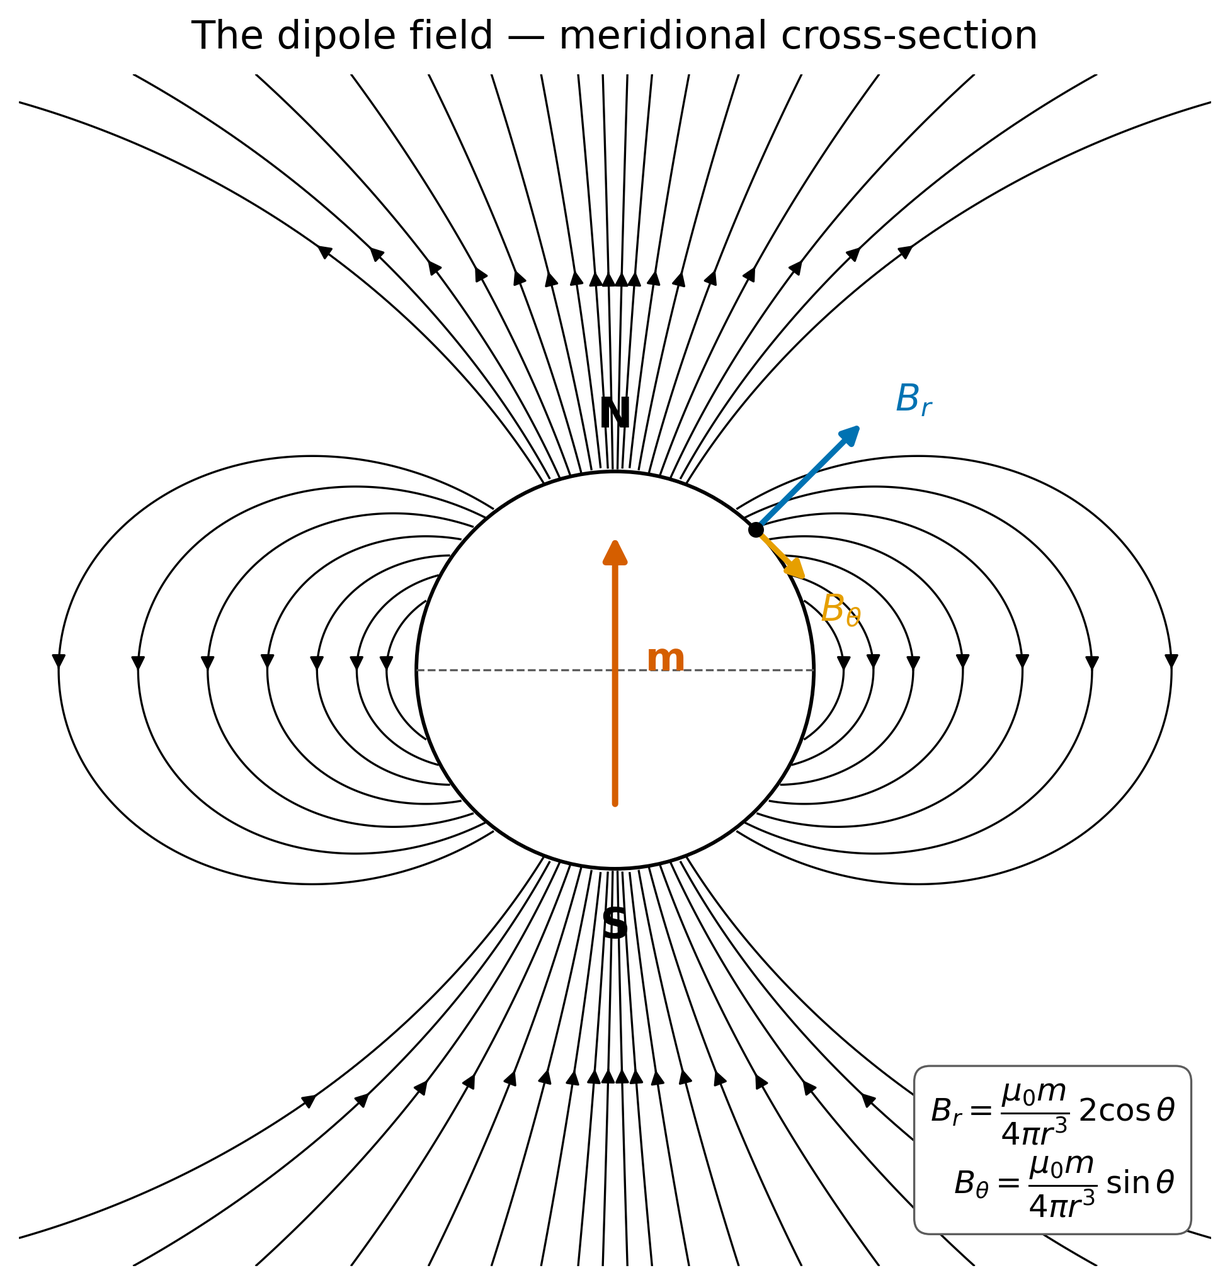
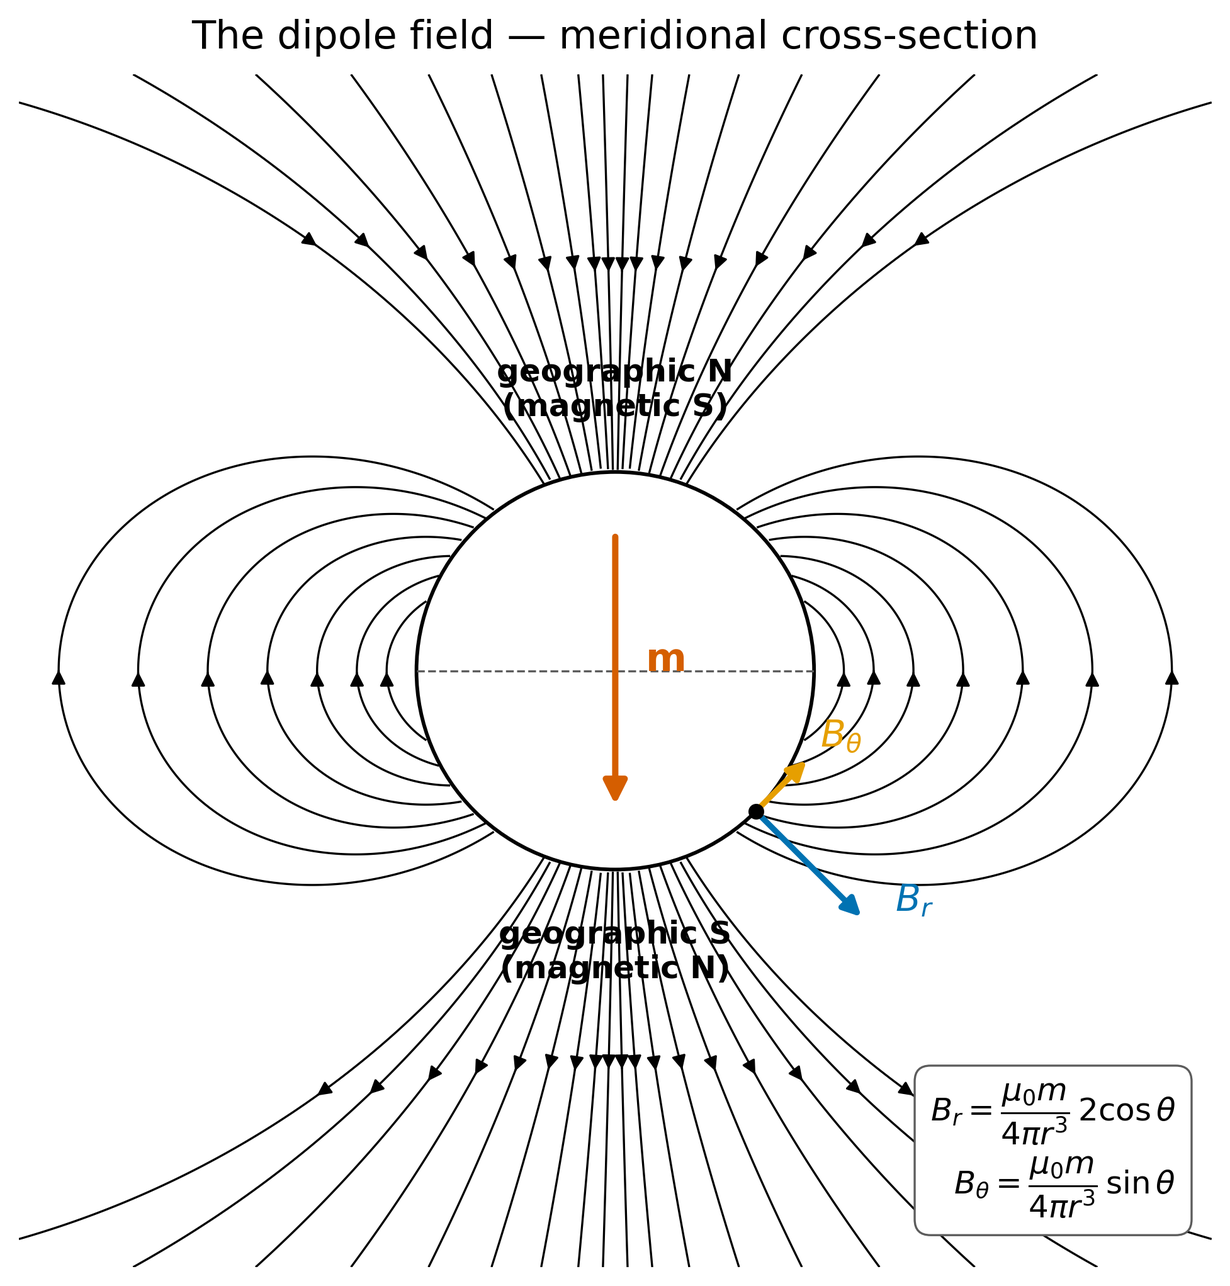
update for smoothing over the mag course

diff --git a/assets/scripts/fig_dipole_big.py b/assets/scripts/fig_dipole_big.py
@@ -49,7 +49,10 @@ def main(out: Path) -> None:
     xg = np.linspace(-extent, extent, n)
     yg = np.linspace(-extent, extent, n)
     X, Y = np.meshgrid(xg, yg)
-    Bx, By = dipole_field(X, Y, m_unit=1.0)
+    # Earth's geomagnetic dipole points from geographic N (magnetic S) to
+    # geographic S (magnetic N), so the moment vector m is in the -y
+    # direction here.
+    Bx, By = dipole_field(X, Y, m_unit=-1.0)
 
     # Mask the field inside the sphere so streamlines don't pass through it.
     inside = (X * X + Y * Y) < 1.0
@@ -93,15 +96,19 @@ def main(out: Path) -> None:
     ax.plot([-1, 1], [0, 0], color=COLORS["grey"], linewidth=0.8,
             linestyle="--", zorder=11)
 
-    # Pole labels (north = up; geographic convention).
-    ax.text(0, 1.18, "N", ha="center", va="bottom", fontsize=16,
-            fontweight="bold", color=COLORS["black"], zorder=12)
-    ax.text(0, -1.18, "S", ha="center", va="top", fontsize=16,
-            fontweight="bold", color=COLORS["black"], zorder=12)
+    # Pole labels: geographic north (top) hosts the *magnetic south* pole,
+    # geographic south (bottom) hosts the *magnetic north* pole. This is
+    # why the north end of a compass needle is attracted toward the
+    # geographic North.
+    ax.text(0, 1.25, "geographic N\n(magnetic S)", ha="center", va="bottom",
+            fontsize=12, fontweight="bold", color=COLORS["black"], zorder=12)
+    ax.text(0, -1.25, "geographic S\n(magnetic N)", ha="center", va="top",
+            fontsize=12, fontweight="bold", color=COLORS["black"], zorder=12)
 
-    # Dipole moment arrow inside the sphere.
+    # Dipole moment arrow inside the sphere — points from magnetic S (top)
+    # to magnetic N (bottom), i.e. downward.
     ax.annotate(
-        "", xy=(0, 0.7), xytext=(0, -0.7),
+        "", xy=(0, -0.7), xytext=(0, 0.7),
         arrowprops=dict(arrowstyle="-|>", color=COLORS["vermilion"],
                         lw=2.4, mutation_scale=18),
         zorder=11,
@@ -110,11 +117,15 @@ def main(out: Path) -> None:
             color=COLORS["vermilion"], zorder=12)
 
     # B_r / B_theta decomposition inset at one surface point.
-    # Pick a point at colatitude theta = 45 deg on the sphere.
+    # Pick a point at colatitude theta = 45 deg measured from the magnetic
+    # north pole (which is at the geographic south, i.e. -y here). The
+    # point therefore sits in the lower-right quadrant; with the flipped
+    # dipole, B_r points outward and B_theta points tangentially toward
+    # the magnetic equator, keeping both components positive.
     theta_pt = np.radians(45.0)
     r_pt = 1.0
     px = r_pt * np.sin(theta_pt)
-    py = r_pt * np.cos(theta_pt)
+    py = -r_pt * np.cos(theta_pt)
     # Compute field magnitudes at that point (in dipole units).
     # B_r = (mu m / 4 pi r^3) * 2 cos theta ; B_theta = ... * sin theta.
     # In arbitrary units take the prefactor = 1.
@@ -122,9 +133,11 @@ def main(out: Path) -> None:
     Bt_mag = np.sin(theta_pt)
     arrow_scale = 0.55  # visual scale of the decomposition arrows
 
-    # Radial unit vector at the point.
-    r_hat = np.array([np.sin(theta_pt), np.cos(theta_pt)])
-    t_hat = np.array([np.cos(theta_pt), -np.sin(theta_pt)])  # tangential, pointing toward equator
+    # Radial unit vector at the point (pointing away from origin) and a
+    # tangential unit vector pointing from the point toward the magnetic
+    # equator (which is the geographic equator, y = 0).
+    r_hat = np.array([np.sin(theta_pt), -np.cos(theta_pt)])
+    t_hat = np.array([np.cos(theta_pt), np.sin(theta_pt)])
 
     # Draw decomposition.
     ax.annotate(
@@ -153,7 +166,7 @@ def main(out: Path) -> None:
     )
     ax.text(
         px + Bt_mag * arrow_scale * t_hat[0] + 0.05,
-        py + Bt_mag * arrow_scale * t_hat[1] - 0.18,
+        py + Bt_mag * arrow_scale * t_hat[1] + 0.05,
         r"$B_\theta$", fontsize=14, color=COLORS["orange"], fontweight="bold",
         zorder=15,
     )

diff --git a/lectures/25_magnetic_anomalies.md b/lectures/25_magnetic_anomalies.md
@@ -34,7 +34,7 @@ By the end of this lecture, students will be able to:
 - **[LO-25.1]** Define the total-field magnetic anomaly $\Delta F$ as the residual $F_\text{obs} - F_\text{IGRF}$ after diurnal correction, and explain why $\Delta F$ is approximately the projection of the source field onto the local $\hat{\mathbf{F}}_\text{earth}$ direction.
 - **[LO-25.2]** Use the closed-form expression for a buried induced magnetic dipole to predict the anomaly shape above the source, including the dependence on the inclination $I$ of the inducing field; explain why magnetic anomalies are asymmetric at all latitudes except the pole.
 - **[LO-25.3]** Apply the half-width depth rule $z \approx 2\,x_{1/2}$ for an induced dipole at the magnetic pole (or after reduction-to-pole), and propagate measurement noise $\sigma_F$ to depth uncertainty $\sigma_z / z \approx (1/3)\,\sigma_F / \Delta F_\text{max}$.
-- **[LO-25.4]** Generate and interpret an ensemble-fit cloud in $(z, m)$ parameter space, identify the theoretical ridge $m \propto z^3$ along which depth and moment trade off, and discuss how induced + remanent ambiguity widens the cloud relative to the gravity case.
+- **[LO-25.4]** Generate and interpret an ensemble-fit cloud in $(z, m)$ parameter space, identify the theoretical ridge $m \propto z^3$ along which depth and moment trade off, and discuss how induced ($\mathbf{m}_\text{ind}$) plus remanent ($\mathbf{m}_\text{rem}$) ambiguity widens the cloud relative to the gravity case.
 - **[LO-25.5]** Read a real magnetic-anomaly map at three scales — global (EMAG2), continental (USGS North America), and local (Seattle Fault Zone) — and identify which geological features each scale resolves; describe the role of magnetic data in mapping the Seattle Fault Zone.
 
 ::::
@@ -57,6 +57,39 @@ By the end of this lecture, students will be able to:
 ## Prerequisites
 
 This lecture builds on Lecture 23 (the constitutive relation $\mathbf{B} = \mu_0(1+\chi)\mathbf{H}$, the dipole field, the local (D, I, F) system, the three sources of the surface field) and Lecture 24 (induced vs remanent magnetisation, the Königsberger ratio $Q$). It also leans heavily on the gravity-inversion framework of Lecture 20: the half-width depth rule, the $\chi^2$-misfit ensemble fit, and the depth-moment trade-off ridge. The magnetic case repeats this framework with a faster-decaying source field and an additional vector ambiguity.
+
+::::{dropdown} Notation reference (this lecture)
+:color: info
+:icon: book
+
+New symbols introduced in Lecture 25. Symbols inherited from Lectures 23–24 ($\mathbf{B}$, $\mathbf{H}$, $\mathbf{M}$, $\mu_0$, $\chi$, $F$, $D$, $I$, $\mathbf{M}_\text{ind}$, $\mathbf{M}_\text{rem}$, $\mathbf{H}_\text{earth}$, $Q$, $T_C$) carry the same meaning and units — see the L23 and L24 notation tables.
+
+| Symbol | Name | Units / notes |
+|---|---|---|
+| $F_\text{obs}$ | Total intensity **measured** at a survey station, $F_\text{obs}=|\mathbf{B}|$. | nT |
+| $F_\text{core}$ | Core-field contribution to $F_\text{obs}$ (the geodynamo signal, L23 §4). | nT |
+| $F_\text{lith}$ | **Lithospheric** contribution (the signal of interest for surveying). | nT |
+| $F_\text{ext}$ | External (ionospheric / magnetospheric) contribution. | nT |
+| $F_\text{IGRF}$ | Modelled core field from the IGRF at the survey epoch (subtracted from $F_\text{obs}$). | nT |
+| $F_\text{diurnal}$ | Base-station time-varying trace used to remove the external field. | nT |
+| $\Delta F$ | **Total-field magnetic anomaly**: $\Delta F = F_\text{obs} - F_\text{IGRF} - F_\text{diurnal}$. | nT |
+| $\Delta F_\text{max}$ | Peak amplitude of $\Delta F$ at the surface above the source. | nT |
+| $\sigma_F$ | RMS measurement noise on $\Delta F$ after all corrections. | nT |
+| $\mathbf{m}$ | **Dipole moment of a buried body** (local to L25; distinct from Earth's $\mathbf{m}$ in L23). | A m$^2$ |
+| $\mathbf{m}_\text{ind},\,\mathbf{m}_\text{rem}$ | Induced and remanent components of the body moment: $\mathbf{m} = \chi V \mathbf{H}_\text{earth} + \mathbf{m}_\text{rem}$. | A m$^2$ |
+| $V$ | Volume of the buried body. | m$^3$ |
+| $\mathbf{F}_\text{earth},\,\hat{\mathbf{F}}_\text{earth}$ | Local ambient total-field vector and its unit direction at the survey point. | nT, — |
+| $\mathbf{B}_\text{source}$ | Surface field perturbation produced by a buried magnetised body. | nT |
+| $\mathbf{B}_\text{dipole}$ | Closed-form dipole field of the body — eq. [](#eq-Bdipole). | nT |
+| $\mathbf{r},\,r$ | Vector from source to observation, and its magnitude. | m |
+| $\hat{\mathbf{m}},\,\hat{\mathbf{r}}$ | Unit vectors of $\mathbf{m}$ and $\mathbf{r}$. | — |
+| $x,\,z$ | Horizontal surface coordinate and **depth-below-surface** (positive downward). | m |
+| $x_{1/2}$ | **Half-width** of the anomaly: $\Delta F(x_{1/2}) = \tfrac12\Delta F_\text{max}$. | m |
+| $\sigma_z$ | Propagated depth uncertainty from $\sigma_F$. | m |
+| $\Phi$ | Gravitational scalar potential ($\mathbf{g} = -\nabla\Phi$). | m$^2$ s$^{-2}$ |
+| $\Psi$ | Magnetic scalar potential ($\mathbf{H} = -\nabla\Psi$, in current-free regions). | A |
+
+::::
 
 ---
 
@@ -173,10 +206,10 @@ The simplest magnetic body that has a closed-form solution is a small sphere or 
 
 ```{math}
 :label: eq-m-decomp
-\mathbf{m} = \mathbf{m}_\text{induced} + \mathbf{m}_\text{remanent} = \chi V \mathbf{H}_\text{earth} + \mathbf{m}_\text{remanent},
+\mathbf{m} = \mathbf{m}_\text{ind} + \mathbf{m}_\text{rem} = \chi V \mathbf{H}_\text{earth} + \mathbf{m}_\text{rem},
 ```
 
-where $V$ is the body volume, $\chi$ is the volume magnetic susceptibility (Lecture 23 [](#eq-susc)), $\mathbf{H}_\text{earth}$ is the local ambient field (in A m$^{-1}$), and $\mathbf{m}_\text{remanent}$ is the permanent (e.g. TRM) component. For a freshly intruded volcanic body the two terms can be comparable; for an old plutonic body with low Königsberger ratio the induced term usually dominates. **For the remainder of this section we restrict attention to the induced case**, returning to the vector ambiguity in §6.
+where $V$ is the body volume, $\chi$ is the volume magnetic susceptibility (Lecture 23 [](#eq-susc)), $\mathbf{H}_\text{earth}$ is the local ambient field (in A m$^{-1}$), and $\mathbf{m}_\text{rem}$ is the permanent (e.g. TRM) component — same subscript convention as L24 §3. For a freshly intruded volcanic body the two terms can be comparable; for an old plutonic body with low Königsberger ratio the induced term usually dominates. **For the remainder of this section we restrict attention to the induced case**, returning to the vector ambiguity in §6.
 
 Place the dipole at $(0, z)$ with $z > 0$ measured downward, and the observation at $(x, 0)$ on the surface. The vector from source to observation is $\mathbf{r} = (x, -z)$ with $r = \sqrt{x^2 + z^2}$. The induced moment direction is $\hat{\mathbf{m}} = (\cos I, \sin I)$ — parallel to the inducing field with inclination $I$. The dipole field is
 
@@ -312,11 +345,11 @@ The ridge [](#eq-mzcubed-ridge) has a steeper exponent than the gravity case ($M
 For a gravity survey, the only physical ambiguity in inversion is the trade-off between source mass and depth: a deep heavy source produces the same anomaly as a shallow light one. For a magnetic survey, *two* ambiguities operate together:
 
 1. The same $(z, m)$ trade-off, intensified to $m \propto z^3$ (§5).
-2. An additional *vector* ambiguity in the magnetisation direction: $\mathbf{m} = \mathbf{m}_\text{induced} + \mathbf{m}_\text{remanent}$ [](#eq-m-decomp). The induced component is parallel to $\mathbf{H}_\text{earth}$, but the remanent component can point in *any* direction — its orientation was set when the body last cooled through the Curie temperature, possibly at a different geographic latitude (paleo-latitude, Lecture 23 §7), possibly during a different polarity epoch (the GPTS, Lecture 24 §6).
+2. An additional *vector* ambiguity in the magnetisation direction: $\mathbf{m} = \mathbf{m}_\text{ind} + \mathbf{m}_\text{rem}$ [](#eq-m-decomp). The induced component is parallel to $\mathbf{H}_\text{earth}$, but the remanent component can point in *any* direction — its orientation was set when the body last cooled through the Curie temperature, possibly at a different geographic latitude (paleo-latitude, Lecture 23 §7), possibly during a different polarity epoch (the GPTS, Lecture 24 §6).
 
 The consequence is that a single magnetic-anomaly profile cannot, in general, separate induced from remanent magnetisation. If a body is known to be young and felsic ($Q \ll 1$, Lecture 24 §3), the induced-only assumption is safe. If the body is volcanic and recent ($Q \gg 1$, e.g. fresh basalt), the induced-only assumption fails spectacularly.
 
-**Resolution requires more data**: gradiometry to constrain the direction of $\mathbf{B}_\text{source}$ at multiple stations, laboratory measurements of representative samples for the bulk $\mathbf{M}_\text{remanent}$ and $Q$, or *joint inversion with gravity* (which sees only mass and is blind to remanence). All three approaches are in standard use today, and the third is the cleanest example of multi-physics integration in shallow-Earth geophysics: combining two observables that share the depth-extent of the source but differ in their sensitivity to the source's physical properties.
+**Resolution requires more data**: gradiometry to constrain the direction of $\mathbf{B}_\text{source}$ at multiple stations, laboratory measurements of representative samples for the bulk $\mathbf{M}_\text{rem}$ and $Q$, or *joint inversion with gravity* (which sees only mass and is blind to remanence). All three approaches are in standard use today, and the third is the cleanest example of multi-physics integration in shallow-Earth geophysics: combining two observables that share the depth-extent of the source but differ in their sensitivity to the source's physical properties.
 
 ## 7. Reading real anomaly maps at three scales
 

diff --git a/lectures/23_earth_magnetism.md b/lectures/23_earth_magnetism.md
@@ -57,6 +57,46 @@ By the end of this lecture, students will be able to:
 
 Students should be comfortable with the vector calculus introduced in the gravity module (Lectures 19–22) — in particular, the idea that a scalar potential generates a vector field by gradient, and that surface measurements can be projected onto local Cartesian components. Familiarity with the inverse-square law and with the ensemble-fit framework from gravity will transfer directly. No prior exposure to electromagnetism beyond an introductory-physics treatment of a bar magnet is required; the constitutive relation between $\mathbf{B}$, $\mathbf{H}$, and $\mathbf{M}$ is introduced from scratch in §2.
 
+::::{dropdown} Notation reference (this lecture)
+:color: info
+:icon: book
+
+This table lists every symbol introduced in Lecture 23. Symbols marked **(L23–L25)** are reused unchanged in Lectures 24 and 25; symbols marked **(local to L23)** appear only in this lecture.
+
+| Symbol | Name | Units / notes |
+|---|---|---|
+| $\mathbf{B}$ | **Magnetic flux density** — what a magnetometer measures (Lorentz-force field). **(L23–L25)** | T; nT $= 10^{-9}$ T |
+| $\mathbf{H}$ | **Auxiliary magnetic field**; produced by free currents alone. **(L23–L25)** | A m$^{-1}$ |
+| $\mathbf{M}$ | **Magnetisation** — volume density of atomic dipole moments. **(L23–L25)** | A m$^{-1}$ |
+| $\mu_0$ | Permeability of free space. **(L23–L25)** | $4\pi\times 10^{-7}$ T m A$^{-1}$ |
+| $\mu$ | Material permeability: $\mu = \mu_0(1+\chi)$. | T m A$^{-1}$ |
+| $\chi$ | **Volume magnetic susceptibility** — linear-response coefficient $\mathbf{M}=\chi\mathbf{H}$. **(L23–L25)** | dimensionless (SI) |
+| $F$ | **Total field intensity** at a station: $F = |\mathbf{B}|$. **(L23–L25)** | nT |
+| $\mathbf{F}$ | Total-field **vector** at a station (same magnitude $F$). | nT |
+| $D$ | **Declination** — horizontal angle of $\mathbf{F}$ east of true north. **(L23–L25)** | degrees |
+| $I$ | **Inclination** — angle of $\mathbf{F}$ below horizontal. **(L23–L25)** | degrees |
+| $X,\,Y,\,Z$ | Local Cartesian components of $\mathbf{F}$ (north / east / **down**). | nT |
+| $H_\text{horiz}$ | Horizontal magnitude $H_\text{horiz} = F\cos I$ (subscripted to avoid clash with $\mathbf{H}$). | nT |
+| $\mathbf{m}$ | **Magnetic dipole moment** — Earth's geomagnetic moment in L23; a buried-body moment in L25. **(L23, L25)** | A m$^2$ |
+| $r$, $\hat{\mathbf{r}}$ | Radial distance from the dipole and its unit vector. | m, — |
+| $\theta$ | Magnetic **colatitude** (angle from the dipole north pole). | rad / degrees |
+| $\lambda$ | Geographic **latitude** (used in $\tan I = 2\tan\lambda$). **(L23, L24)** | degrees |
+| $B_r,\,B_\theta$ | Radial and tangential components of the dipole field. | nT |
+| $n$ | Spherical-harmonic degree (Mauersberger–Lowes spectrum). | integer |
+| $R_n$ | Power per harmonic degree of the surface field. | nT$^2$ |
+| $r_\text{CMB},\,r_\text{surf}$ | Core-mantle-boundary and Earth-surface radii (3 480 km; 6 371 km). | km |
+| $\mathbf{u}$ | Outer-core fluid velocity. | m s$^{-1}$ |
+| $\eta$ | Magnetic diffusivity, $\eta = 1/(\mu_0\sigma)$. | m$^2$ s$^{-1}$ |
+| $\sigma$ | Electrical conductivity of liquid iron ($\sim 10^6$). | S m$^{-1}$ |
+| $R_m$ | Magnetic Reynolds number, $R_m = UL/\eta$. | dimensionless |
+| $Ro$ | Rossby number, $Ro = U/(2\Omega L)$. | dimensionless |
+| $\Omega$ | Earth's rotation rate ($7.27\times 10^{-5}$ rad s$^{-1}$). | rad s$^{-1}$ |
+| $T_C$ | Curie temperature (introduced in detail in L24). **(L23–L25)** | °C |
+
+**Conventions adopted throughout the magnetism module (L23–L25).** Vectors use bold roman ($\mathbf{B}$, $\mathbf{H}$, $\mathbf{M}$); unit vectors carry a hat ($\hat{\mathbf{r}}$, $\hat{\mathbf{m}}$, $\hat{\boldsymbol\theta}$). All subscripts use upright text (`\text{...}`) — e.g. $H_\text{horiz}$, $\mathbf{M}_\text{rem}$, $r_\text{CMB}$ — never the older `\rm` form. Angles in degrees are written with the Unicode glyph (`°`, e.g. $I = 68.9°$) rather than `^\circ`. Numbers $\geq 10\,000$ use a thin-space thousands separator (e.g. $50\,000$ nT).
+
+::::
+
 ---
 
 ## 1. The framing question
@@ -164,10 +204,10 @@ $$ (eq-dipole-rtheta)
 
 ```{figure} ../assets/figures/fig_dipole_big.png
 :name: fig-dipole-big
-:alt: Meridional cross-section of an idealised magnetic dipole. A circular boundary in the centre encloses a vertical orange arrow labelled m pointing from the south magnetic pole at the bottom to the north magnetic pole at the top. A dense family of dipole field lines (curved black streamlines with arrowheads) emerges from the north pole, loops outward through space, and re-enters at the south pole. At one surface point on the right, the radial component B-sub-r is drawn as a blue arrow pointing outward and the tangential component B-sub-theta is drawn as an orange arrow tangent to the surface, illustrating the polar decomposition. A small inset box reproduces the two equations B-sub-r equals (mu-zero over four pi) times m times two cosine theta over r cubed, and B-sub-theta equals (mu-zero over four pi) times m times sine theta over r cubed.
+:alt: Meridional cross-section of an idealised magnetic dipole drawn in Earth's true polarity. A circular boundary in the centre encloses a vertical orange arrow labelled m pointing downward, from the magnetic south pole (top, labelled "geographic N / magnetic S") to the magnetic north pole (bottom, labelled "geographic S / magnetic N"). A dense family of dipole field lines (curved black streamlines with arrowheads) emerges from the magnetic north pole at the bottom, loops outward through space, and re-enters at the magnetic south pole at the top. At one surface point in the lower-right quadrant, the radial component B-sub-r is drawn as a blue arrow pointing outward and the tangential component B-sub-theta is drawn as an orange arrow tangent to the surface, illustrating the polar decomposition. A small inset box reproduces the two equations B-sub-r equals (mu-zero over four pi) times m times two cosine theta over r cubed, and B-sub-theta equals (mu-zero over four pi) times m times sine theta over r cubed.
 :width: 80%
 
-The meridional field of an idealised magnetic dipole, with the polar decomposition into $B_r$ and $B_\theta$ marked at a representative surface point. The field falls off as $1/r^3$, and at any latitude $B_r = 2 B_\theta \cot\theta$ — the factor of 2 that returns immediately as $\tan I = 2\tan\lambda$.
+The meridional field of an idealised magnetic dipole, drawn in **Earth's true polarity**: the geographic North Pole hosts the *magnetic south* pole and the geographic South Pole hosts the *magnetic north* pole. This is why the north end of a compass needle is attracted toward geographic North — opposite poles attract. The dipole moment $\mathbf{m}$ therefore points from the geographic north toward the geographic south. The polar decomposition into $B_r$ and $B_\theta$ is marked at a representative surface point. The field falls off as $1/r^3$, and at any latitude $|B_r| = 2 |B_\theta| \cot\theta$ — the factor of 2 that returns immediately as $\tan I = 2\tan\lambda$.
 ```
 
 Two features matter for what follows:

diff --git a/lectures/24_rock_magnetism.md b/lectures/24_rock_magnetism.md
@@ -60,6 +60,31 @@ By the end of this lecture, students will be able to:
 
 This lecture builds directly on Lecture 23, especially section 2 (the three fields $\mathbf{B}$, $\mathbf{H}$, $\mathbf{M}$ and the constitutive relation $\mathbf{B} = \mu_0(1+\chi)\mathbf{H}$) and section 3 (the dipole field and the geocentric axial dipole relation $\tan I = 2\tan\lambda$). Students should be comfortable with the idea that magnetisation $\mathbf{M}$ is a volumetric density of atomic dipole moments, that susceptibility $\chi$ is the linear-response coefficient, and that paleo-latitude can be recovered from a measured inclination with quantified uncertainty. No new electromagnetism is introduced; the lecture works mostly at the atomic and mineralogical scale.
 
+::::{dropdown} Notation reference (this lecture)
+:color: info
+:icon: book
+
+New symbols introduced in Lecture 24. Symbols inherited from Lecture 23 ($\mathbf{B}$, $\mathbf{H}$, $\mathbf{M}$, $\mu_0$, $\chi$, $F$, $D$, $I$, $\lambda$) carry the same meaning and units — see the L23 notation table.
+
+| Symbol | Name | Units / notes |
+|---|---|---|
+| $\mathbf{M}_\text{ind}$ | **Induced magnetisation** of a sample in an ambient field: $\mathbf{M}_\text{ind} = \chi\mathbf{H}$ — vanishes when $\mathbf{H}=0$. **(L24, L25)** | A m$^{-1}$ |
+| $\mathbf{M}_\text{rem}$ | **Remanent (permanent) magnetisation**; locked in by acquisition history, persists when $\mathbf{H}=0$. **(L24, L25)** | A m$^{-1}$ |
+| $\mathbf{H}_\text{earth}$ | Local **ambient (Earth) auxiliary field** acting on a sample or buried body. **(L24, L25)** | A m$^{-1}$ |
+| $H_0$ | Magnitude of the ambient field at the moment of remanence acquisition. | A m$^{-1}$ |
+| $Q$ | **Königsberger ratio**: $Q = |\mathbf{M}_\text{rem}|/|\mathbf{M}_\text{ind}|$. **(L24, L25)** | dimensionless |
+| $M_s$ | **Saturation magnetisation** — high-$H$ plateau of the hysteresis loop. | A m$^{-1}$ |
+| $M_r$ | **Remanence** — intercept of the hysteresis loop at $H = 0$. | A m$^{-1}$ |
+| $H_c$ | **Coercive field** (coercivity) — intercept of the hysteresis loop at $M = 0$. | A m$^{-1}$ |
+| $J_s(T)$ | Spontaneous (temperature-dependent) magnetisation of a ferri/ferromagnetic mineral; $J_s(0)$ is its low-$T$ value, used to normalise the Curie curve. | A m$^{-1}$ |
+| $T_C$ | **Curie temperature** — the temperature above which spontaneous order is lost. **(L23–L25)** | °C |
+| $v$ | **Half-spreading rate** at a mid-ocean ridge. | mm yr$^{-1}$ $=$ km Myr$^{-1}$ |
+| $x_B,\,t_B$ | Distance and age of a polarity boundary from the ridge axis: $x_B = v\,t_B$. | km, Myr |
+
+**A note on $M_s$ vs $J_s(T)$.** Both denote a saturation/spontaneous magnetisation. We keep them distinct following the rock-magnetism literature {cite}`tauxe2018essentials`: $M_s$ is the *isothermal* room-temperature hysteresis-loop value, while $J_s(T)$ is the *temperature-dependent* spontaneous magnetisation that vanishes at $T_C$.
+
+::::
+
 ---
 
 ## 1. The Geoscientific Question
